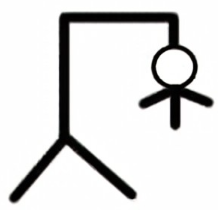
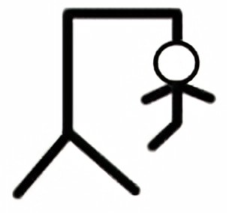
se incluyo la seleccion de categorias en el ahorcado

Changed region(s): [[0.0275, 0.0286, 0.9908, 0.9714]]

diff --git a/src/app/components/punto3/punto3.component.html b/src/app/components/punto3/punto3.component.html
@@ -1,69 +1,94 @@
 <div class="container mt-5">
-    <div class="row">
-      <div class="col-12 text-center mb-4">
-        <h1>Juego del Ahorcado</h1>
-        <h3>Categoría: {{ category }}</h3>
-      </div>
+  <div class="row">
+    <div class="col-12 text-center mb-4">
+      <h1>Juego del Ahorcado</h1>
+      <h3>Categoría: {{ category }}</h3>
     </div>
-    <div class="row">
-      <div class="col-md-6 text-center">
-        <img [src]="getHangmanImage()" alt="Hangman" class="img-fluid hangman-image">
-        <p class="mt-3">Intentos restantes: {{ attempts }}</p>
-      </div>
-      <div class="col-md-6">
-        <div class="word-container mb-4">
-          <span *ngFor="let letter of hiddenWord" class="letter-box">{{ letter }}</span>
-        </div>
-        <div class="input-group mb-3" *ngIf="!gameOver && !gameWon">
-          <input 
-            type="text" 
-            class="form-control" 
-            maxlength="1" 
-            [(ngModel)]="currentLetter" 
-            (keyup.enter)="guessLetter()"
-            placeholder="Ingresa una letra"
-            [disabled]="gameOver || gameWon">
-          <button class="btn btn-primary" (click)="guessLetter()">Adivinar</button>
-        </div>
-        <div class="wrong-letters mt-4">
-          <h4>Letras incorrectas:</h4>
-          <span *ngFor="let letter of wrongLetters" class="wrong-letter">{{ letter }}</span>
-        </div>
-        <button class="btn btn-success mt-4" (click)="resetGame()">Reiniciar Juego</button>
-      </div>
-    </div>
-    <div class="modal fade" [class.show]="gameOver" [style.display]="gameOver ? 'block' : 'none'" tabindex="-1" role="dialog">
-      <div class="modal-dialog" role="document">
-        <div class="modal-content">
-          <div class="modal-header">
-            <h5 class="modal-title">¡Juego terminado!</h5>
-            <button type="button" class="btn-close" (click)="resetGame()" aria-label="Close"></button>
-          </div>
-          <div class="modal-body">
-            <p>¡Has perdido! La palabra era: {{ selectedWord }}</p>
-          </div>
-          <div class="modal-footer">
-            <button type="button" class="btn btn-primary" (click)="resetGame()">Jugar de nuevo</button>
-          </div>
-        </div>
-      </div>
-    </div>
-    <div class="modal-backdrop fade show" *ngIf="gameOver"></div>
-    <div class="modal fade" [class.show]="gameWon" [style.display]="gameWon ? 'block' : 'none'" tabindex="-1" role="dialog">
-      <div class="modal-dialog" role="document">
-        <div class="modal-content">
-          <div class="modal-header">
-            <h5 class="modal-title">¡Felicitaciones!</h5>
-            <button type="button" class="btn-close" (click)="resetGame()" aria-label="Close"></button>
-          </div>
-          <div class="modal-body">
-            <p>¡Has ganado! La palabra era: {{ selectedWord }}</p>
-          </div>
-          <div class="modal-footer">
-            <button type="button" class="btn btn-primary" (click)="resetGame()">Jugar de nuevo</button>
-          </div>
-        </div>
-      </div>
-    </div>
-    <div class="modal-backdrop fade show" *ngIf="gameWon"></div>
   </div>
+  
+  <!-- Selector de categorías -->
+  <div class="row mb-4">
+    <div class="col-12 text-center">
+      <div class="category-selector">
+        <h4 class="mb-3">Selecciona una categoría:</h4>
+        <div class="btn-group flex-wrap" role="group">
+          <button 
+            *ngFor="let key of categoryKeys" 
+            class="btn mx-1 mb-2" 
+            [class.btn-primary]="key === selectedCategoryKey"
+            [class.btn-outline-primary]="key !== selectedCategoryKey"
+            (click)="selectCategory(key)">
+            {{ categories[key].displayName }}
+          </button>
+        </div>
+      </div>
+    </div>
+  </div>
+  
+  <div class="row">
+    <div class="col-md-6 text-center">
+      <img [src]="getHangmanImage()" alt="Hangman" class="img-fluid hangman-image">
+      <p class="mt-3">Intentos restantes: {{ attempts }}</p>
+      <p *ngIf="lastChanceMessage" class="text-danger fw-bold">{{ lastChanceMessage }}</p>
+    </div>
+    <div class="col-md-6">
+      <div class="word-container mb-4">
+        <span *ngFor="let letter of hiddenWord" class="letter-box">{{ letter }}</span>
+      </div>
+      <div class="input-group mb-3" *ngIf="!gameOver && !gameWon">
+        <input 
+          type="text" 
+          class="form-control" 
+          maxlength="1" 
+          [(ngModel)]="currentLetter" 
+          (keyup.enter)="guessLetter()"
+          placeholder="Ingresa una letra"
+          [disabled]="gameOver || gameWon">
+        <button class="btn btn-primary" (click)="guessLetter()">Adivinar</button>
+      </div>
+      <div class="wrong-letters mt-4">
+        <h4>Letras incorrectas:</h4>
+        <span *ngFor="let letter of wrongLetters" class="wrong-letter">{{ letter }}</span>
+      </div>
+      <button class="btn btn-success mt-4" (click)="resetGame()">Reiniciar Juego</button>
+    </div>
+  </div>
+  
+  <!-- Game Over Modal -->
+  <div class="modal fade" [class.show]="gameOver" [style.display]="gameOver ? 'block' : 'none'" tabindex="-1" role="dialog">
+    <div class="modal-dialog" role="document">
+      <div class="modal-content">
+        <div class="modal-header">
+          <h5 class="modal-title">¡Juego terminado!</h5>
+          <button type="button" class="btn-close" (click)="resetGame()" aria-label="Close"></button>
+        </div>
+        <div class="modal-body">
+          <p>¡Has perdido! La palabra era: {{ selectedWord }}</p>
+        </div>
+        <div class="modal-footer">
+          <button type="button" class="btn btn-primary" (click)="resetGame()">Jugar de nuevo</button>
+        </div>
+      </div>
+    </div>
+  </div>
+  <div class="modal-backdrop fade show" *ngIf="gameOver"></div>
+  
+  <!-- Game Won Modal -->
+  <div class="modal fade" [class.show]="gameWon" [style.display]="gameWon ? 'block' : 'none'" tabindex="-1" role="dialog">
+    <div class="modal-dialog" role="document">
+      <div class="modal-content">
+        <div class="modal-header">
+          <h5 class="modal-title">¡Felicitaciones!</h5>
+          <button type="button" class="btn-close" (click)="resetGame()" aria-label="Close"></button>
+        </div>
+        <div class="modal-body">
+          <p>¡Has ganado! La palabra era: {{ selectedWord }}</p>
+        </div>
+        <div class="modal-footer">
+          <button type="button" class="btn btn-primary" (click)="resetGame()">Jugar de nuevo</button>
+        </div>
+      </div>
+    </div>
+  </div>
+  <div class="modal-backdrop fade show" *ngIf="gameWon"></div>
+</div>

diff --git a/src/app/components/punto3/punto3.component.ts b/src/app/components/punto3/punto3.component.ts
@@ -2,6 +2,16 @@ import { Component, OnInit } from '@angular/core';
 import { CommonModule } from '@angular/common';
 import { FormsModule } from '@angular/forms';
 
+// Definir tipos para las categorías
+type CategoryKey = 'animales' | 'paises' | 'alimentos' | 'deportes' | 'profesiones' | 'tecnologia' | 'peliculas';
+
+interface CategoryData {
+  displayName: string;
+  words: string[];
+}
+
+type Categories = Record<CategoryKey, CategoryData>;
+
 @Component({
   selector: 'app-punto3',
   standalone: true,
@@ -10,12 +20,47 @@ import { FormsModule } from '@angular/forms';
   styleUrls: ['./punto3.component.css']
 })
 export class Punto3Component implements OnInit {
-  words: string[] = ['ELEFANTE', 'JIRAFA', 'TIGRE', 'LEON', 'COCODRILO', 'HIPOPOTAMO', 'RINOCERONTE', 'CEBRA', 'PINGUINO', 'DELFIN'];
+  // Categorías de palabras con tipado correcto
+  categories: Categories = {
+    animales: {
+      displayName: 'Animales',
+      words: ['ELEFANTE', 'JIRAFA', 'TIGRE', 'LEON', 'COCODRILO', 'HIPOPOTAMO', 'RINOCERONTE', 'CEBRA', 'PINGUINO', 'DELFIN']
+    },
+    paises: {
+      displayName: 'Países',
+      words: ['ARGENTINA', 'MEXICO', 'COLOMBIA', 'ESPAÑA', 'BRASIL', 'FRANCIA', 'ALEMANIA', 'JAPON', 'AUSTRALIA', 'CANADA']
+    },
+    alimentos: {
+      displayName: 'Alimentos',
+      words: ['MANZANA', 'PLATANO', 'ZANAHORIA', 'TOMATE', 'ESPINACA', 'NARANJA', 'PIMIENTO', 'CEBOLLA', 'AGUACATE', 'SANDIA']
+    },
+    deportes: {
+      displayName: 'Deportes',
+      words: ['FUTBOL', 'BALONCESTO', 'TENIS', 'NATACION', 'ATLETISMO', 'CICLISMO', 'VOLEIBOL', 'BEISBOL', 'BOXEO', 'GIMNASIA']
+    },
+    profesiones: {
+      displayName: 'Profesiones',
+      words: ['MEDICO', 'PROFESOR', 'INGENIERO', 'ABOGADO', 'ARQUITECTO', 'BOMBERO', 'POLICIA', 'ENFERMERO', 'CONTADOR', 'PERIODISTA']
+    },
+    tecnologia: {
+      displayName: 'Tecnología',
+      words: ['COMPUTADORA', 'TELEFONO', 'INTERNET', 'ROBOT', 'SATELITE', 'PROGRAMA', 'ALGORITMO', 'SERVIDOR', 'PANTALLA', 'TECLADO']
+    },
+    peliculas: {
+      displayName: 'Películas',
+      words: ['TITANIC', 'AVATAR', 'MATRIX', 'GLADIADOR', 'INTERESTELAR', 'FROZEN', 'JOKER', 'COCO', 'AVENGERS', 'JURASSIC']
+    }
+  };
+  
+  categoryKeys: CategoryKey[] = Object.keys(this.categories) as CategoryKey[];
+  selectedCategoryKey: CategoryKey = 'animales';
+  lastChanceMessage: string = '';
+  
   selectedWord: string = '';
   hiddenWord: string[] = [];
   guessedLetters: string[] = [];
   wrongLetters: string[] = [];
-  attempts: number = 5;
+  attempts: number = 7;
   gameOver: boolean = false;
   gameWon: boolean = false;
   currentLetter: string = '';
@@ -25,9 +70,16 @@ export class Punto3Component implements OnInit {
     this.startGame();
   }
 
+  selectCategory(categoryKey: CategoryKey): void {
+    this.selectedCategoryKey = categoryKey;
+    this.category = this.categories[categoryKey].displayName;
+    this.startGame();
+  }
+
   startGame(): void {
-    // Select a random word
-    this.selectedWord = this.words[Math.floor(Math.random() * this.words.length)];
+    // Select a random word from the current category
+    const words = this.categories[this.selectedCategoryKey].words;
+    this.selectedWord = words[Math.floor(Math.random() * words.length)];
     
     // Initialize the hidden word with underscores
     this.hiddenWord = Array(this.selectedWord.length).fill('_');
@@ -35,7 +87,7 @@ export class Punto3Component implements OnInit {
     // Reset game state
     this.guessedLetters = [];
     this.wrongLetters = [];
-    this.attempts = 5;
+    this.attempts = 7;
     this.gameOver = false;
     this.gameWon = false;
     this.currentLetter = '';
@@ -72,7 +124,9 @@ export class Punto3Component implements OnInit {
       this.wrongLetters.push(letter);
       this.attempts--;
       
-      // Check if the game is over
+      if (this.attempts === 1) 
+        this.lastChanceMessage = '¡Última oportunidad!';
+
       if (this.attempts === 0) {
         this.gameOver = true;
       }
@@ -86,6 +140,6 @@ export class Punto3Component implements OnInit {
   }
 
   getHangmanImage(): string {
-    return `assets/hangman-${7 - this.attempts}.png`;
+    return `img/${0 + this.attempts}vidas.PNG`;
   }
 }
